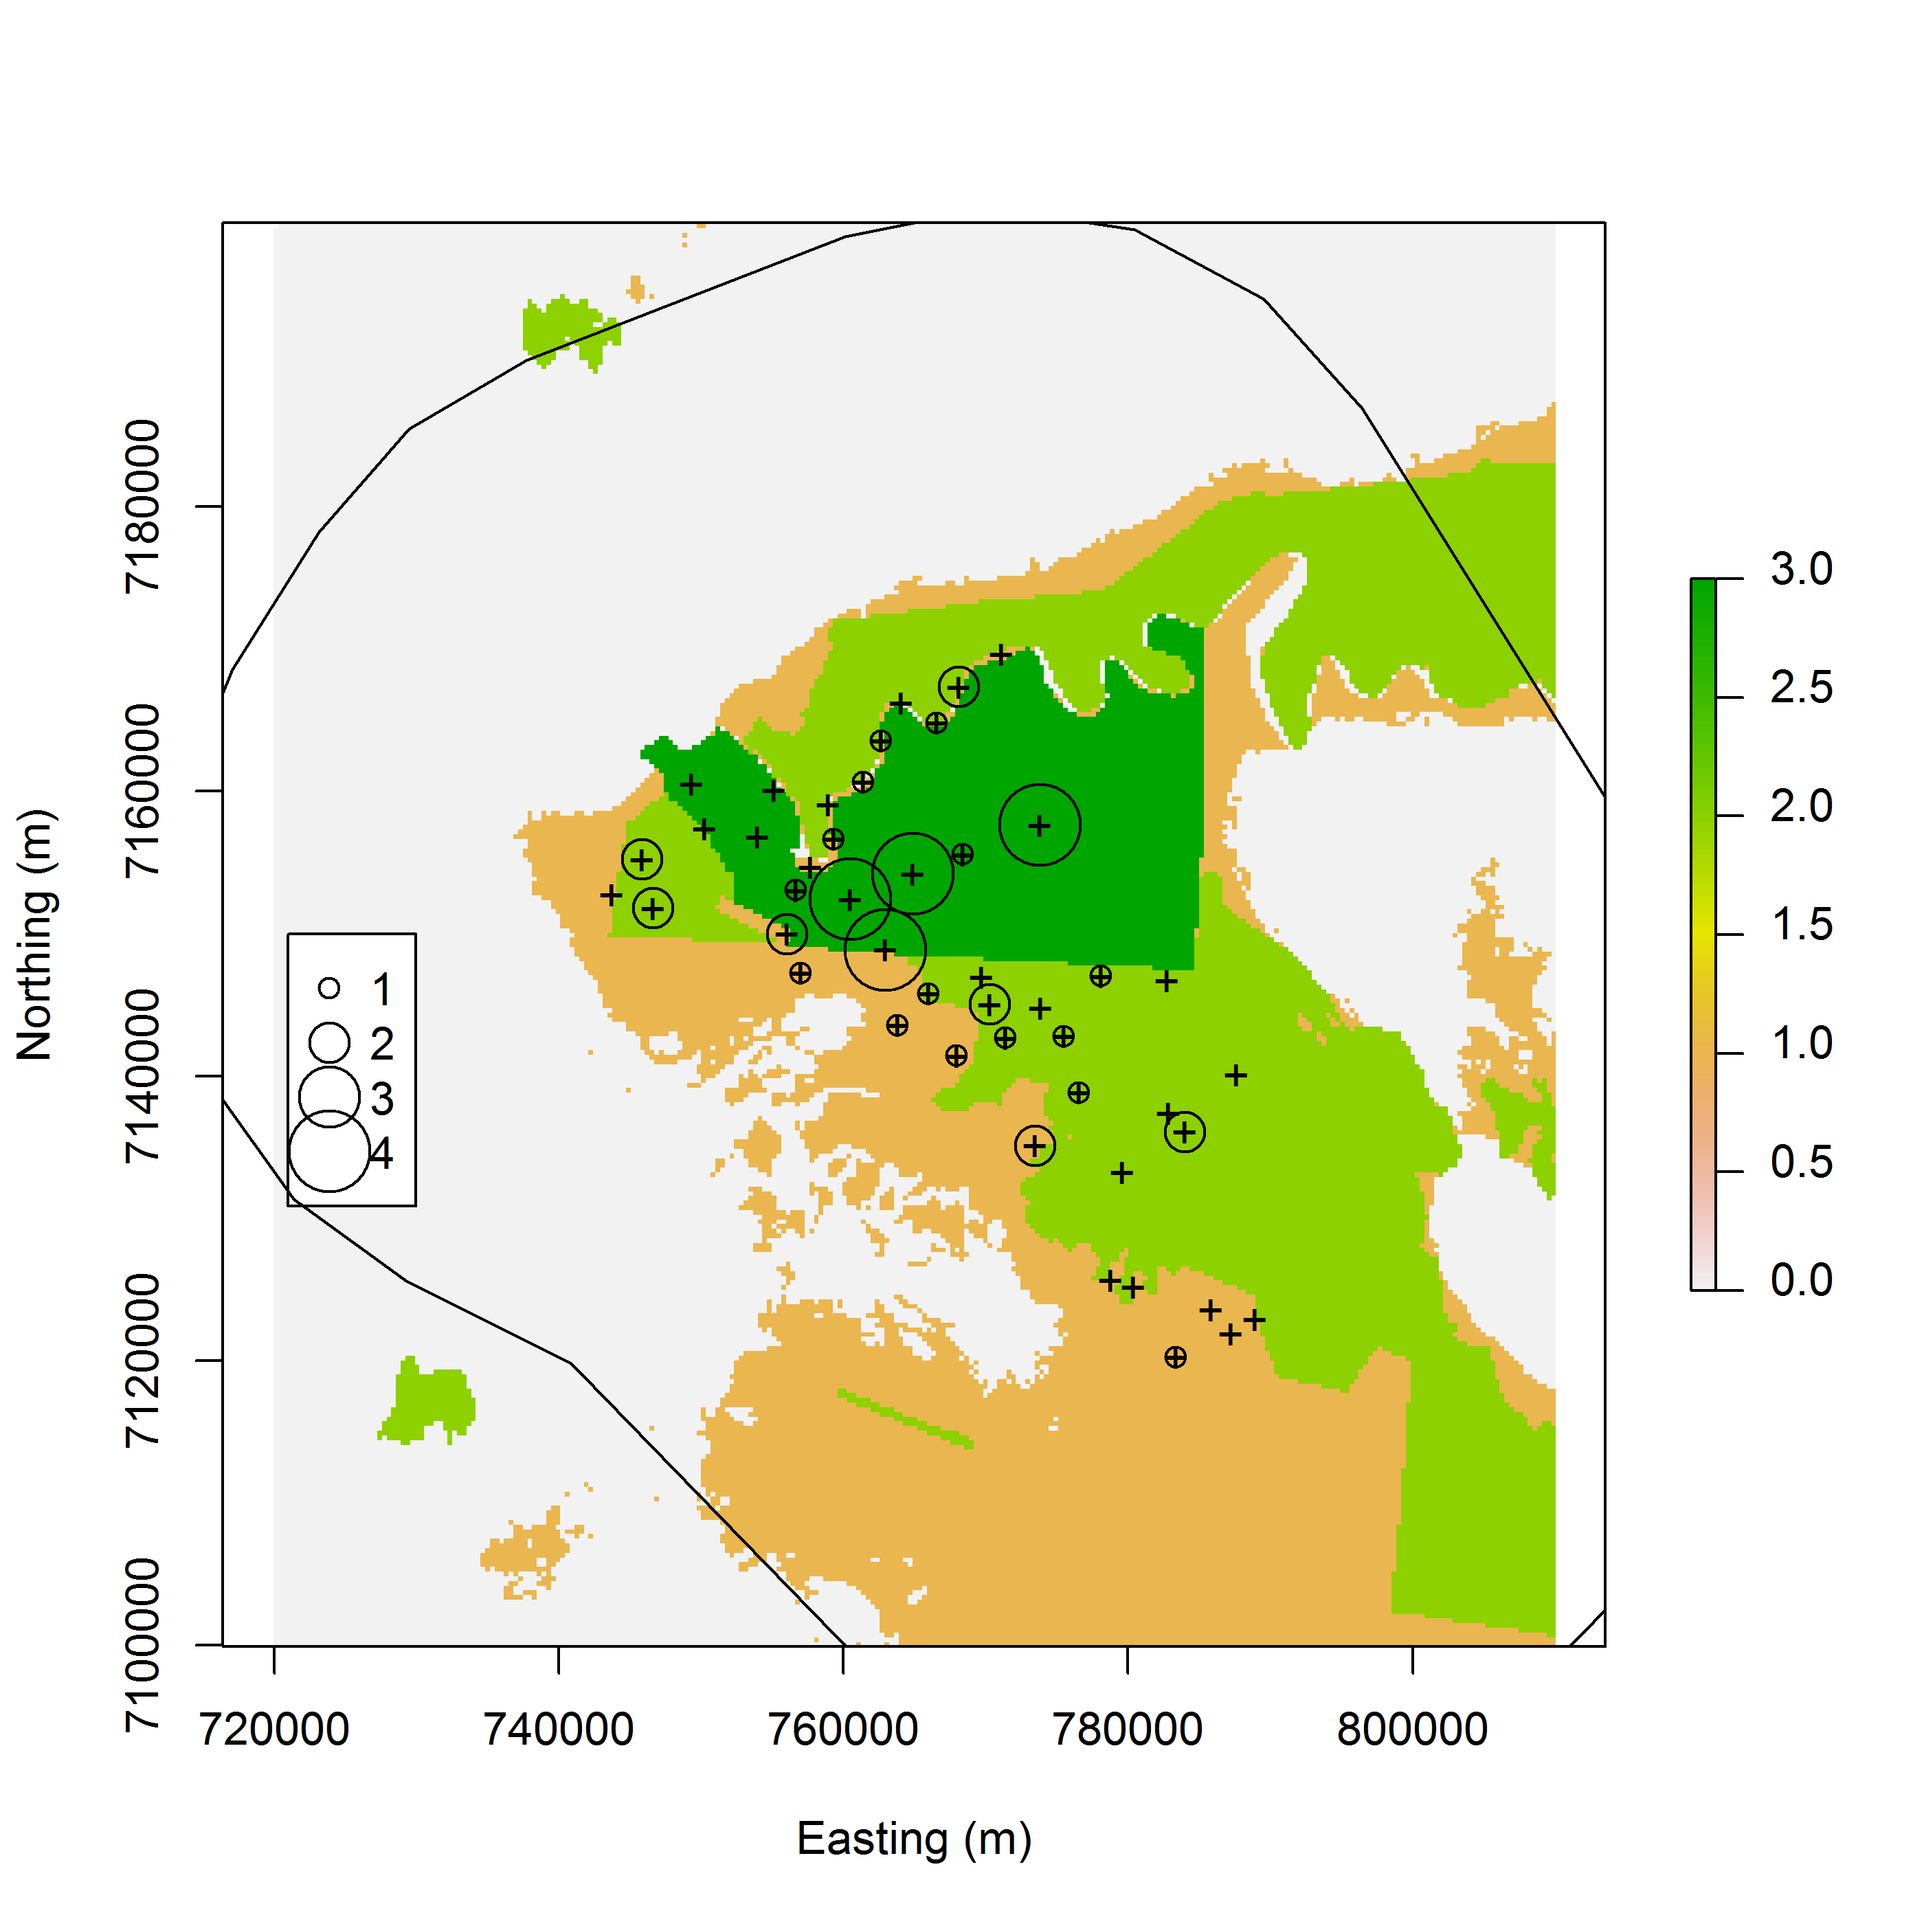
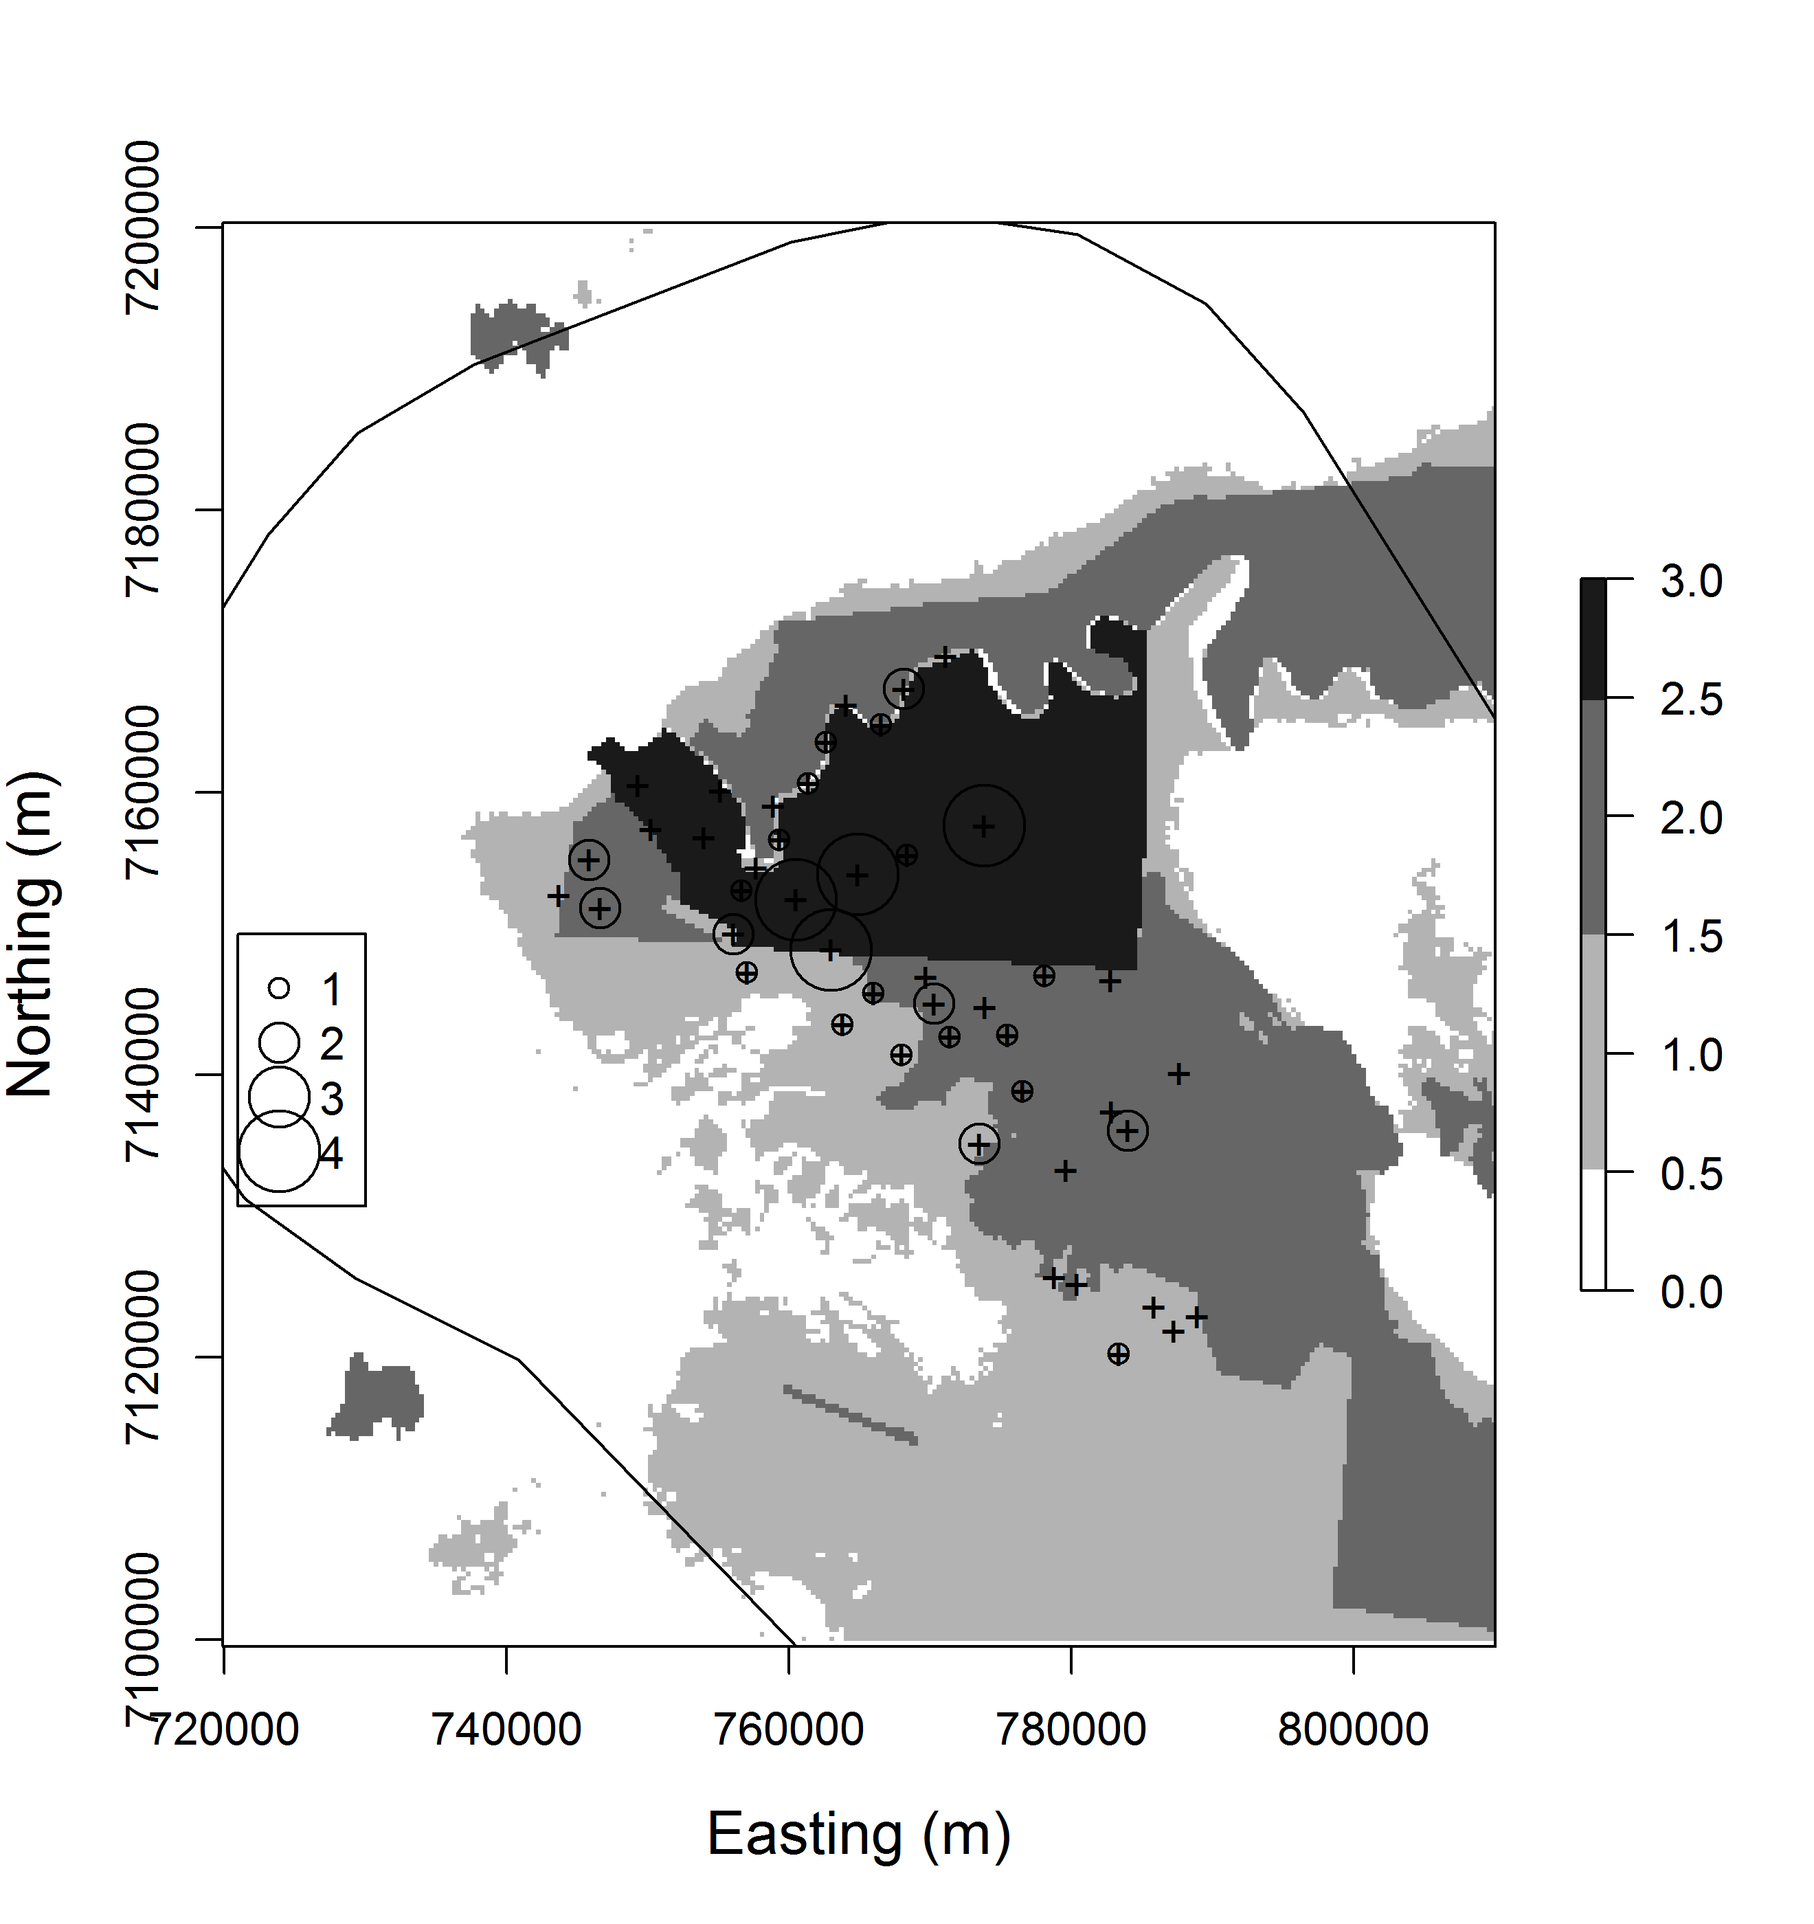
converted state-space figs to grayscale

diff --git a/Ch11-Statespace/Chapt-Statespace.tex b/Ch11-Statespace/Chapt-Statespace.tex
@@ -795,37 +795,34 @@ actually observed. The following \R~code simulates encounter histories under a
 Poisson observation model (see Chapt. \ref{chapt.poisson-mn}), which could be appropriate in camera
 trapping studies or when using other methods in which animals could
 be detected multiple times at a trap during a single occasion.
-
 %\begin{samepage}
 \begin{small}
 \begin{verbatim}
-xsp <- seq(20, 80, by=10); len <- length(xsp)
-X <- cbind(rep(xsp, each=len), rep(xsp, times=len)) # traps
-ntraps <- nrow(X); noccasions <- 5
-y <- array(NA, c(N, ntraps, noccasions)) # capture data
-sigma <- 5  # scale parameter
-lam0 <- 1   # basal encounter rate
-lam <- matrix(NA, N, ntraps)
-set.seed(5588)
-for(i in 1:N) {
-    for(j in 1:ntraps) {
-        # The object "s" was simulated in previous section
-        distSq <- (s[i,1]-X[j,1])^2 + (s[i,2] - X[j,2])^2
-        lam[i,j] <- exp(-distSq/(2*sigma^2)) * lam0
-        y[i,j,] <- rpois(noccasions, lam[i,j])
-    }
-}
-# data augmentation
-nz <- 80; M <- nz+nrow(y)
-yz <- array(0, c(M, ntraps, K))
-yz[1:nrow(y),,] <- y # Fill data augmentation array
+> xsp <- seq(20, 80, by=10); len <- length(xsp)
+> X <- cbind(rep(xsp, each=len), rep(xsp, times=len)) # traps
+> ntraps <- nrow(X); noccasions <- 5
+> y <- array(NA, c(N, ntraps, noccasions)) # capture data
+> sigma <- 5  # scale parameter
+> lam0 <- 1   # basal encounter rate
+> lam <- matrix(NA, N, ntraps)
+> set.seed(5588)
+> for(i in 1:N) {
++     for(j in 1:ntraps) {
++         # The object "s" was simulated in previous section
++         distSq <- (s[i,1]-X[j,1])^2 + (s[i,2] - X[j,2])^2
++         lam[i,j] <- exp(-distSq/(2*sigma^2)) * lam0
++         y[i,j,] <- rpois(noccasions, lam[i,j])
++     }
++ }
 \end{verbatim}
 \end{small}
 %\end{samepage}
 
-Now that we have a simulated capture-recapture dataset \texttt{y} and we have
-augmented it to create the new data object \texttt{yz}, we can
-estimate the parameters using MCMC.  A commented Gibbs sampler written
+Now that we have a simulated capture-recapture dataset \texttt{y}, %and we have
+%augmented it to create the new data object \texttt{yz},
+we can simulation the posterior distributions of the model parameters
+%estimate the parameters
+using MCMC.  A commented Gibbs sampler written
 in \R~is available in the accompanying \R~package \scrbook~(see
 \texttt{?scrIPP}). This function is not meant to be an all purpose
 tool for fitting SCR models using MCMC. Instead, it is presented so
@@ -835,9 +832,9 @@ The function can be used as so:
 %\begin{samepage}
 \begin{small}
 \begin{verbatim}
-fm1 <- scrIPP(yz, X, M, 10000, xlims=c(0,100), ylims=c(0,100),
-              space.cov=elev.fn, tune=c(0.4, 0.2, 0.3, 0.3, 7))
-plot(mcmc(fm1$out))
+> fm1 <- scrIPP(y, X, M=150, 10000, xlims=c(0,100), ylims=c(0,100),
++               space.cov=elev.fn, tune=c(0.4, 0.2, 0.3, 0.3, 7))
+> plot(mcmc(fm1$out))
 \end{verbatim}
 \end{small}
 %\end{samepage}
@@ -849,6 +846,10 @@ rectangular state-space defined by the \verb+xlims+ and \verb+ylims+
 arguments. Currently, the function
 places uniform priors on the parameters $\sigma$, $\lambda_0$,
 $\beta_0$ and $\beta_1$, although this could easily be modified.
+The \verb+tune+ argument specifies the tuning parameters used in the
+Metropolis-within-Gibbs steps of the algorithm. These should be chosen
+using trial and error to acheive an acceptance rate of between 0.4 and
+0.6, roughly. See Chapt.~\ref{chapt.mcmc} for more details about MCMC.
 
 Results of the analysis are shown in
 Fig.~\ref{state-space.fig.fm1post} and
@@ -883,7 +884,7 @@ difficult in \bugs~because the ``IPP'' prior $[\mathbf{s}_i | \bm
 available distributions that comes with the software. It is
 possible to add new distributions in \bugs, but it is somewhat
 cumbersome.  \secr~allows
-users to fit continuous space models using linear or polynomial functions of the x- and y-
+users to fit continuous space models using linear or polynomial functions of the easting and northing
 coordinates, but it does not accept truly continuous covariates that
 are functions of space. However, these
 are not really important limitations because discrete
@@ -927,7 +928,7 @@ Parameter 	 	& Mean  	& SD    	& 2.5\% 	& 97.5\% \\
 
 To fit inhomogeneous point process models using covariates in discrete
 space, i.e. in raster format, we follow the same steps
-as outlined in Chapter~\ref{chapt.poisson-mn}---we define ${\bf s}_i$ as
+as outlined in Chapter~\ref{chapt.poisson-mn} -- we define ${\bf s}_i$ as
 pixel ID, and we use the categorical distribution as a prior. This
 effectively changes the problem from estimating the coordinates of an
 activity center, to estimating the pixel in which an activity center is
@@ -941,7 +942,7 @@ using using the code shown on the help page
 activity centers in each pixel, generated from a single realization of
 the inhomogeneous point process model with intensity
 $\mu(\mathbf{x}, \bm{\beta}) = \exp(\beta_0 + \beta_1
-\text{CANHT}({\bf s}))\times\text{pixelArea}$,
+\text{CANHT}({\bf x}))\times\text{pixelArea}$,
 where $\beta_0 = -6$ and $\beta_1 = 1$.
 \begin{figure}%[ht]
 \centering
@@ -959,7 +960,7 @@ The \bugs~description of the model is shown in
 panel~\ref{state-space.panel1}. The vector \verb+probs[]+ is the prior
 probability defined by Eq.~\ref{state-space.eq.pdf.hetero.d}, which is
 the probability that an individual's activity center is located at
-pixel $\bf s$. \verb+Sgrid+ is the matrix of coordinates for each pixel.
+pixel $\bf x$. \verb+grid+ is the matrix of coordinates for each pixel.
 
 \begin{panel}%[h!]
 \centering
@@ -981,8 +982,8 @@ psi <- EN/M
 for(i in 1:M) {
   z[i] ~ dbern(psi)
   s[i] ~ dcat(probs[])
-  x0g[i] <- Sgrid[s[i],1]
-  y0g[i] <- Sgrid[s[i],2]
+  x0g[i] <- grid[s[i],1]
+  y0g[i] <- grid[s[i],2]
   for(j in 1:ntraps) {
     dist[i,j] <- sqrt(pow(x0g[i]-traps[j,1],2) + pow(y0g[i]-traps[j,2],2))
     lambda[i,j] <- lam0*exp(-dist[i,j]*dist[i,j]/(2*sigma*sigma)) * z[i]
@@ -1102,7 +1103,7 @@ Paraguay. Additional information about the study is presented in
 The expected effect of poaching is a decline in jaguar
 density due to the direct removal of individuals and the depletion of its
 main prey species.
-To protect jaguars and related species, protected areas have
+To conserve jaguars and related species, protected areas have
 been established and three levels of protection are
 recognized, as depicted in Fig.~\ref{state-space.fig.jaguarCts}.
 The dark gray %green XXXX TODO: Convert images to grayscale
@@ -1130,7 +1131,7 @@ scale parameter of the half-normal (or Gaussian) encounter model as
 sex-specific because male cats typically have larger home ranges than
 females \citep{sollmann_etal:2011}. Since sex is an
 individual-specific covariate, and not observed for the individuals
-that were not captured, a prior is required for the sex of uncaptured
+that were not captured, a prior distribution is required for the sex of uncaptured
 individuals. We used a Bernoulli prior with probability 0.5 to
 describe our uncertainty about sex ratio. Another equivalent option is
 to augment the data with an equal number of males and females and let
@@ -1141,9 +1142,9 @@ members of the population.
 \centering
 \includegraphics[width=0.6\textwidth]{Ch11-Statespace/figs/jaguarCountMap}
 \caption{Jaguar detections at 46 camera trap stations. The three levels of
-  protection status are no protection (beige), some protection (light
-  green), and Iguaz\'{u} National Park (dark green). Non-habitat
-  (soybean monocultures) is shown in gray. XXXX CHANGE TO GRAYSCALE}
+  protection status are no protection (light gray), some protection
+  (gray), and Iguaz\'{u} National Park (dark gray). Non-habitat
+  (soybean monocultures) is shown in white. }
 \label{state-space.fig.jaguarCts}
 \end{figure}
 
@@ -1174,8 +1175,8 @@ allow us to work around this problem, but once again we find that it
 is most convenient to work in discrete space and sum over all the pixels defining
 $\mathcal{S}$.
 
-We fit the model to data from a single year of data from 46
-camera stations, each consisting of a pair of cameras placed along
+We fit the model to data from a single year in which 46
+camera stations were operational, each consisting of a pair of cameras placed along
 roads or small trails. Forty-five detections of 16 jaguars (8 males and 8
 females) were made over a 95-day sampling period. The mean number of
 sampling days at each camera station was 48.2. The raw capture data
@@ -1237,7 +1238,7 @@ unprotected area. Fig.~\ref{state-space.fig.Dsurface} shows the estimated
 density surfaces. The first map is the expected density in each of
 the three values, which was computed by plugging in the posterior mean
 values of $\beta_0$ and $\beta_1$ into the log-linear intensity
-function. The second map is the realized density surface---the
+function. The second map is the realized density surface -- the
 conditional-on-$N$ probability distribution of the number of
 activity centers in each pixel of the rasterized
 state-space. The expected values
@@ -1249,7 +1250,7 @@ description of the system during the study period.
 \centering
 \includegraphics[width=\textwidth]{Ch11-Statespace/figs/reD}
 \caption{Estimated density (activity centers / pixel) surfaces from
-  the analysis of the jaguar data. XXXX CONVERT TO GRAYSCALE}
+  the analysis of the jaguar data.}
 \label{state-space.fig.Dsurface}
 \end{figure}
 
